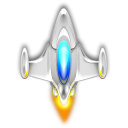
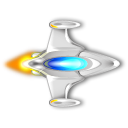
Űrhajó kezdeti pozíciójának, irányának beállítása

Changed region(s): [[0.0, 0.0312, 0.9688, 1.0]]

diff --git a/src/hu/bme/mit/asteroid/GameFactory.java b/src/hu/bme/mit/asteroid/GameFactory.java
@@ -63,8 +63,11 @@ public class GameFactory {
 		if (!sLevels.get(levelID).isUnlocked()) {
 			throw new LevelNotUnlockedException();
 		}
-		// TODO initialize SpaceShip...
-		player.setSpaceShip(new SpaceShip(new Vector2D(30, 30), 0, new SimpleWeapon()));
+
+		SpaceShip spaceShip = new SpaceShip(
+				new Vector2D(AsteroidGame.WINDOW_SIZE_X / 2, AsteroidGame.WINDOW_SIZE_Y / 2), Math.PI / 2,
+				new SimpleWeapon());
+		player.setSpaceShip(spaceShip);
 		GameState gameState = new GameState(player, null);
 		generateAsteroidPositions(gameState, sLevels.get(levelID));
 
@@ -89,9 +92,14 @@ public class GameFactory {
 		if (levelID < 0 || levelID > sLevels.size() - 1) {
 			throw new LevelNotExistsException();
 		}
-		// TODO initialize SpaceShips...
-		player1.setSpaceShip(new SpaceShip(new Vector2D(30, 30), 0, new SimpleWeapon()));
-		player2.setSpaceShip(new SpaceShip(new Vector2D(100, 100), 0, new SimpleWeapon()));
+
+		SpaceShip spaceShip1 = new SpaceShip(new Vector2D(AsteroidGame.WINDOW_SIZE_X / 3,
+				AsteroidGame.WINDOW_SIZE_Y / 2), Math.PI / 2, new SimpleWeapon());
+		player1.setSpaceShip(spaceShip1);
+
+		SpaceShip spaceShip2 = new SpaceShip(new Vector2D(AsteroidGame.WINDOW_SIZE_X - AsteroidGame.WINDOW_SIZE_X / 3,
+				AsteroidGame.WINDOW_SIZE_Y / 2), Math.PI / 2, new SimpleWeapon());
+		player2.setSpaceShip(spaceShip2);
 		GameState gameState = new GameState(player1, player2);
 		generateAsteroidPositions(gameState, sLevels.get(levelID));
 

diff --git a/src/hu/bme/mit/asteroid/GameSession.java b/src/hu/bme/mit/asteroid/GameSession.java
@@ -310,9 +310,9 @@ public abstract class GameSession implements ControlInterface.Callback {
 			// valami ilyesmi...
 			spaceShip.setPosition(spaceShip.getPosition().add(new Vector2D(0.5f, 0.5f)));
 			if (spaceShip.isTurningLeft()) {
-				spaceShip.setDirection((spaceShip.getDirection() - timeDelta / 1000f * Math.PI * 2));
-			} else if (spaceShip.isTurningRight()) {
 				spaceShip.setDirection((spaceShip.getDirection() + timeDelta / 1000f * Math.PI * 2));
+			} else if (spaceShip.isTurningRight()) {
+				spaceShip.setDirection((spaceShip.getDirection() - timeDelta / 1000f * Math.PI * 2));
 			}
 
 			spaceShip.handleFiring(timeDelta);
